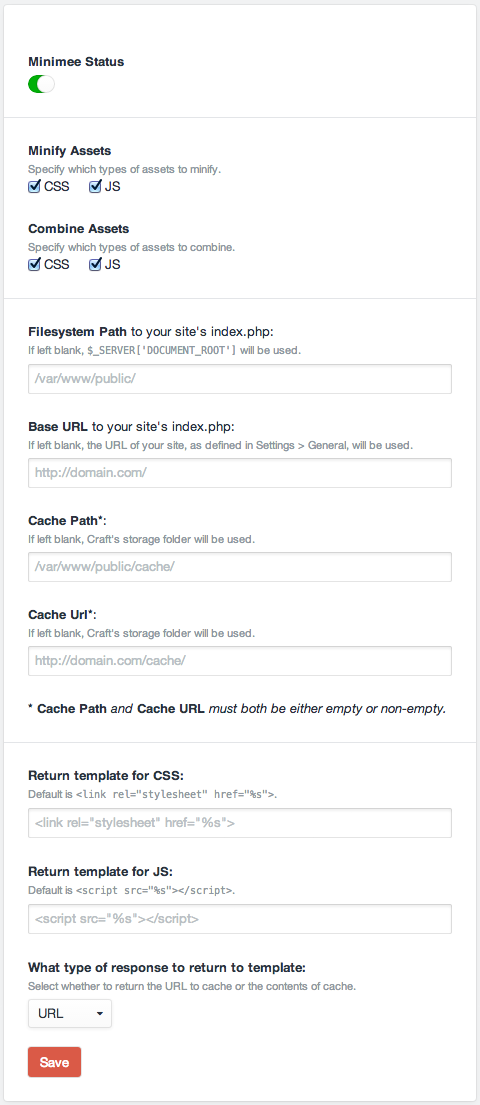
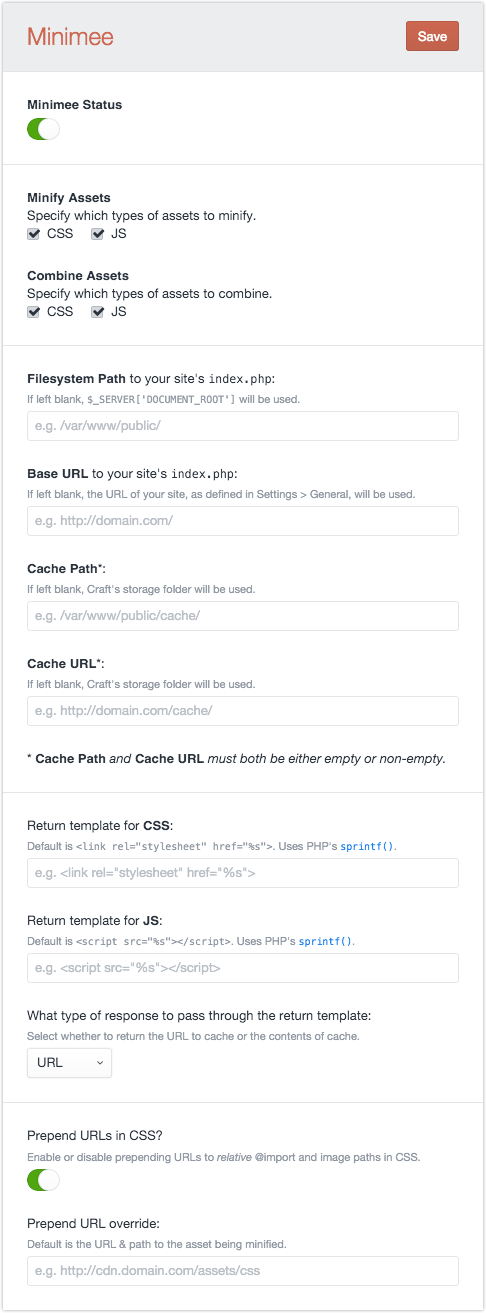
Introduce cssPrependUrl setting; some minor adjustments to readme & settings screen.

diff --git a/minimee/templates/settings.html b/minimee/templates/settings.html
@@ -12,7 +12,8 @@
 		offLabel:	"Off",
 		label: "<strong>Minimee Status</strong>" | t,
 		name:		"enabled",
-		on:			settings.enabled
+		on:			settings.enabled,
+		first:		true
 	})
 }}
 
@@ -77,10 +78,10 @@
 
 {{
 	forms.textField({
-		label: "<strong>Filesystem Path</strong> to your site's index.php:" | t,
+		label: "<strong>Filesystem Path</strong> to your site's <code>index.php</code>:" | t,
 		id: 'filesystemPath',
 		name: 'filesystemPath',
-		placeholder : '/var/www/public/',
+		placeholder : 'e.g. /var/www/public/',
 		instructions : "If left blank, `$_SERVER['DOCUMENT_ROOT']` will be used." | t,
 		value: (settings.filesystemPath is defined ? settings.filesystemPath : null)
 	})
@@ -88,10 +89,10 @@
 
 {{
 	forms.textField({
-		label: "<strong>Base URL</strong> to your site's index.php:" | t,
+		label: "<strong>Base URL</strong> to your site's <code>index.php</code>:" | t,
 		id: 'baseUrl',
 		name: 'baseUrl',
-		placeholder : 'http://domain.com/',
+		placeholder : 'e.g. http://domain.com/',
 		instructions : "If left blank, the URL of your site, as defined in Settings > General, will be used." | t,
 		value: (settings.baseUrl is defined ? settings.baseUrl : null)
 	})
@@ -102,7 +103,7 @@
 		label: "<strong>Cache Path</strong>*:" | t,
 		id: 'cachePath',
 		name: 'cachePath',
-		placeholder : '/var/www/public/cache/',
+		placeholder : 'e.g. /var/www/public/cache/',
 		instructions : "If left blank, Craft's storage folder will be used." | t,
 		value: (settings.cachePath is defined ? settings.cachePath : null)
 	})
@@ -110,10 +111,10 @@
 
 {{
 	forms.textField({
-		label: "<strong>Cache Url</strong>*:" | t,
+		label: "<strong>Cache URL</strong>*:" | t,
 		id: 'cacheUrl',
 		name: 'cacheUrl',
-		placeholder : 'http://domain.com/cache/',
+		placeholder : 'e.g. http://domain.com/cache/',
 		instructions : "If left blank, Craft's storage folder will be used." | t,
 		value: (settings.cacheUrl is defined ? settings.cacheUrl : null)
 	})
@@ -128,8 +129,8 @@
 		label: "Return template for <strong>CSS</strong>:"|t,
 		id: 'cssReturnTemplate',
 		name: 'cssReturnTemplate',
-		placeholder : '<link rel="stylesheet" href="%s">',
-		instructions : "Default is <code>&lt;link rel=&quot;stylesheet&quot; href=&quot;%s&quot;&gt;</code>."|t,
+		placeholder : 'e.g. <link rel="stylesheet" href="%s">',
+		instructions : 'Default is <code>&lt;link rel=&quot;stylesheet&quot; href=&quot;%s&quot;&gt;</code>. Uses PHP\'s <a href="http://php.net/manual/en/function.sprintf.php" target="_blank"><code>sprintf()</code></a>.' | t,
 		value: settings.cssReturnTemplate
 	})
 }}
@@ -139,15 +140,15 @@
 		label: "Return template for <strong>JS</strong>:"|t,
 		id: 'jsReturnTemplate',
 		name: 'jsReturnTemplate',
-		placeholder : '<script src="%s"></script>',
-		instructions : "Default is <code>&lt;script src=&quot;%s&quot;&gt;&lt;/script&gt;</code>."|t,
+		placeholder : 'e.g. <script src="%s"></script>',
+		instructions : 'Default is <code>&lt;script src=&quot;%s&quot;&gt;&lt;/script&gt;</code>. Uses PHP\'s <a href="http://php.net/manual/en/function.sprintf.php" target="_blank"><code>sprintf()</code></a>.' | t,
 		value: settings.jsReturnTemplate
 	})
 }}
 
 {{
 	forms.selectField({
-		label: "What type of response to return to template:"|t,
+		label: "What type of response to pass through the return template:"|t,
 		id: 'returnType',
 		name: 'returnType',
 		options : [{
@@ -163,13 +164,26 @@
 	})
 }}
 
+<hr>
+
 {{
 	forms.lightswitchField({
 		onLabel:	"On",
 		offLabel:	"Off",
-		label: "<strong>Prepend URLs in CSS?</strong>" | t,
-		instructions : "Whether or not to prepend URLs to <em>relative</em> @import and image paths in CSS." | t,
+		label: "Prepend URLs in CSS?" | t,
+		instructions : "Enable or disable prepending URLs to <em>relative</em> @import and image paths in CSS." | t,
 		name:		"cssPrependUrlEnabled",
 		on:			settings.cssPrependUrlEnabled
+	})
+}}
+
+{{
+	forms.textField({
+		label: 'Prepend URL override:' | t,
+		id: 'cssPrependUrl',
+		name: 'cssPrependUrl',
+		placeholder : 'e.g. http://cdn.domain.com/assets/css',
+		instructions : 'Default is the URL &amp; path to the asset being minified.' | t,
+		value: settings.cssPrependUrl
 	})
 }}

diff --git a/minimee/models/Minimee_SettingsModel.php b/minimee/models/Minimee_SettingsModel.php
@@ -82,19 +82,20 @@ class Minimee_SettingsModel extends BaseModel implements Minimee_ISettingsModel
 	public function defineAttributes()
 	{
 		return array(
-			'cachePath'       	=> AttributeType::String,
-			'cacheUrl'       	=> AttributeType::String,
-			'enabled'           => array(AttributeType::Bool, 'default' => true),
-			'filesystemPath'    => AttributeType::String,
-			'baseUrl'           => AttributeType::String,
-			'combineCssEnabled'	=> array(AttributeType::Bool, 'default' => true),
-			'combineJsEnabled' 	=> array(AttributeType::Bool, 'default' => true),
-			'minifyCssEnabled'	=> array(AttributeType::Bool, 'default' => true),
-			'minifyJsEnabled'	=> array(AttributeType::Bool, 'default' => true),
-			'cssReturnTemplate' => array(AttributeType::String, 'default' => '<link rel="stylesheet" href="%s">'),
-			'jsReturnTemplate' 	=> array(AttributeType::String, 'default' => '<script src="%s"></script>'),
-			'returnType'		=> array(AttributeType::String, 'default' => 'url'),
-			'cssPrependUrlEnabled'	=> array(AttributeType::Bool, 'default' => true)
+			'cachePath'       	    => AttributeType::String,
+			'cacheUrl'       	    => AttributeType::String,
+			'enabled'               => array(AttributeType::Bool, 'default' => true),
+			'filesystemPath'        => AttributeType::String,
+			'baseUrl'               => AttributeType::String,
+			'combineCssEnabled'	    => array(AttributeType::Bool, 'default' => true),
+			'combineJsEnabled' 	    => array(AttributeType::Bool, 'default' => true),
+			'minifyCssEnabled'	    => array(AttributeType::Bool, 'default' => true),
+			'minifyJsEnabled'	    => array(AttributeType::Bool, 'default' => true),
+			'cssReturnTemplate'     => array(AttributeType::String, 'default' => '<link rel="stylesheet" href="%s">'),
+			'jsReturnTemplate' 	    => array(AttributeType::String, 'default' => '<script src="%s"></script>'),
+			'returnType'		    => array(AttributeType::String, 'default' => 'url'),
+			'cssPrependUrlEnabled'	=> array(AttributeType::Bool, 'default' => true),
+			'cssPrependUrl'         => array(AttributeType::String, 'default' => '')
 		);
 	}
 
@@ -158,6 +159,23 @@ class Minimee_SettingsModel extends BaseModel implements Minimee_ISettingsModel
 		$cacheUrl = craft()->config->parseEnvironmentString($value);
 
 		return $this->forceTrailingSlash($cacheUrl);
+	}
+
+	/**
+	 * @return String|Bool
+	 */
+	public function getCssPrependUrl()
+	{
+		$value = parent::getAttribute('cssPrependUrl');
+
+		if( ! $value)
+		{
+			return false;
+		}
+
+		$cssPrependUrl = craft()->config->parseEnvironmentString($value);
+
+		return $this->forceTrailingSlash($cssPrependUrl);
 	}
 
 	/**
@@ -256,6 +274,10 @@ class Minimee_SettingsModel extends BaseModel implements Minimee_ISettingsModel
 
 			case('cssReturnTemplate') :
 				return $this->getCssReturnTemplate();
+			break;
+
+			case('cssPrependUrl') :
+				return $this->getCssPrependUrl();
 			break;
 
 			case('filesystemPath') :

diff --git a/minimee/services/MinimeeService.php b/minimee/services/MinimeeService.php
@@ -614,7 +614,12 @@ class MinimeeService extends BaseApplicationComponent
 
 				if($this->settings->cssPrependUrlEnabled)
 				{
-					$cssPrependUrl = dirname($asset->filenameUrl) . '/';
+					$cssPrependUrl = $this->settings->cssPrependUrl;
+
+					if( ! $cssPrependUrl)
+					{
+						$cssPrependUrl = dirname($asset->filenameUrl) . '/';
+					}
 
 					$contents = \Minify_CSS_UriRewriter::prepend($asset->contents, $cssPrependUrl);
 				}

diff --git a/minimee/config.php b/minimee/config.php
@@ -60,6 +60,12 @@ return array(
 		// 'cssPrependUrlEnabled' => true,
 
 		/**
+		 * The URL to use when rewriting CSS
+		 * and prepending
+		 */
+		// 'cssPrependUrl' => '',
+
+		/**
 		 * The template to use when returning to the template.
 		 * Prior to 0.9.0 this was "cssTagTemplate"
 		 * default: <link rel="stylesheet" href="%s">

diff --git a/README.md b/README.md
@@ -11,13 +11,6 @@ Minimize, combine & cache your CSS and JS files. Because size (still) DOES matte
 
 ---
 
-## New since v0.9
-
-* Ability to return contents of the cache to template
-* Settings `cssTagTemplate` and `jsTagTemplate` renamed to `cssReturnTemplate' and `jsReturnTemplate` (old naming is deprecated and support will be removed in 1.x)
-
----
-
 ## Features
 
 * Config settings will parse [Environment Variables](http://buildwithcraft.com/docs/multi-environment-configs#environment-specific-variables)
@@ -30,6 +23,8 @@ Minimize, combine & cache your CSS and JS files. Because size (still) DOES matte
 * Override CP Settings via filesystem config (requires Craft 1.4), or at runtime
 * Clear Minimee's cache from CP (Settings > Tools > Clear Caches)
 * Ability to return contents of the cache to template
+
+_Looking to minify your HTML, or minify inline CSS/JS? You should check out [https://github.com/khalwat/minify](https://github.com/khalwat/minify)._
 
 ---
 
@@ -49,7 +44,7 @@ Out of the box and when first installed, Minimee will be automatically enabled a
 
 ![settings](minimee/resources/img/settings.png)
 
-> Note that all settings will parse Craft's [Environment Variables](http://buildwithcraft.com/docs/config-settings#environmentVariables).
+> Note that all string settings will parse Craft's [Environment Variables](http://buildwithcraft.com/docs/config-settings#environmentVariables).
 
 ##### Filesystem Path
 
@@ -68,6 +63,12 @@ Similar to the `Filesystem Path`, this may need to be overriden in certain circu
 By default, Minimee stores cached assets in Craft's `craft/storage` folder, which likely sits above webroot. The cache is then delivered by Craft itself, via a special "resource" url, e.g. `http://domain.com/resources/minimee/filename.timestamp.ext`.
 
 Alternatively, you can specify a cache path & URL which sits _below_ webroot, so that the cached assets are delivered directly by your server. This is the recommended setup for optimal performance gains.
+
+##### CSS Prepend URL
+
+When Minimee processes CSS files, it will by default alter any _relative_ @import and image URIs (e.g. `url("../img/arrow.svg")`) to be a fully-qualified URL, using the asset's URL as the basis. This ensures that the links will remain intact regardless of where your might save the cached files.
+
+You can opt to turn this feature off; additionally you can set the URL to something custom, by using the `cssPrependUrl` setting.  This is particularly useful if you would like to upload your static assets to a CDN, or link to assets through a cookie-less domain.
 
 ### Runtime Settings
 
@@ -89,7 +90,9 @@ In addition to specifying configuration settings via the CP, you can also pass a
 		'cachePath' : '/var/www/public/cache/',
 		'cacheUrl' : 'http://craft.dev/cache/',
 		'cssReturnTemplate' : '<link rel="stylesheet" href="%s">',
-		'jsReturnTemplate' : '<script src="%s"></script>'
+		'jsReturnTemplate' : '<script src="%s"></script>',
+		'cssPrependUrlEnabled' : true,
+		'cssPrependUrl' : ''
 	} %}
 
 ### Filesystem Config Settings
@@ -102,7 +105,7 @@ For more on how multi-environment configs work in Craft, see [http://buildwithcr
 
 ### The Settings "Cascade"
 
-Given all of the ways to configure Minimee, keep in mind the the cascade or inheritance of these methods:
+Given all of the ways to configure Minimee, keep in mind the cascade or inheritance of these methods:
 
 * CP settings are defaults
 * Filesystem settings override CP settings
